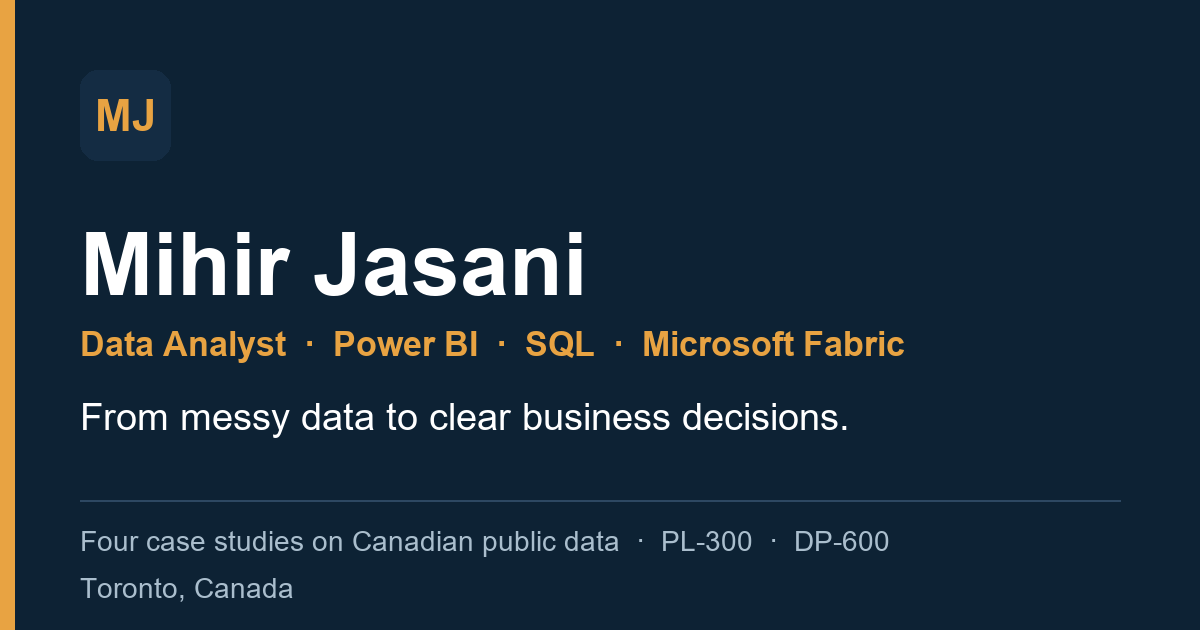
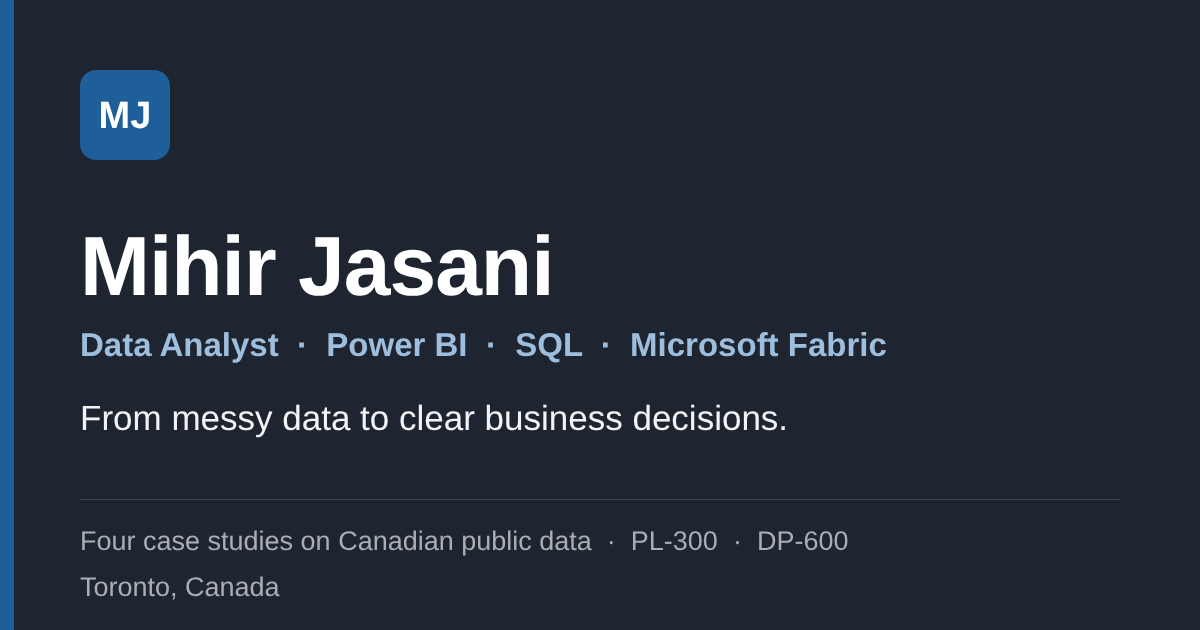
Harbor: remove orange from the site
Rules, focus rings and hover borders use the accent blue; chart
highlights use navy; code syntax uses purple/blue instead of rust.
Favicon, apple-touch icon and social card redrawn in navy and blue.

Claude-Session: https://claude.ai/code/session_01JvAjP8sqo6iSTFGMfecKnt

diff --git a/site/projects.js b/site/projects.js
@@ -277,7 +277,7 @@ window.PROJECTS = [
     charts: [
       {"type": "bar", "orient": "v", "title": "Share of collisions that are fatal, by hour of day (amber = 10 pm to 6 am)", "labels": ["12a", "1a", "2a", "3a", "4a", "5a", "6a", "7a", "8a", "9a", "10a", "11a", "12p", "1p", "2p", "3p", "4p", "5p", "6p", "7p", "8p", "9p", "10p", "11p"], "values": [3.81, 3.93, 4.4, 4.05, 4.89, 3.24, 2.09, 1.43, 1.0, 1.62, 1.6, 1.41, 1.37, 1.62, 1.42, 1.37, 1.33, 1.42, 1.6, 1.64, 2.18, 2.28, 2.3, 3.2], "unit": "% fatal", "suffix": "%", "decimals": 2, "highlight": [0, 1, 2, 3, 4, 5, 22, 23], "noLabels": true},
       {"type": "bar", "orient": "v", "title": "Collisions by month, 2019 and 2020", "labels": ["Jan", "Feb", "Mar", "Apr", "May", "Jun", "Jul", "Aug", "Sep", "Oct", "Nov", "Dec"], "unit": "collisions", "noLabels": true, "datasets": [{"label": "2019", "color": "#1F5F99", "values": [9713, 8327, 7480, 6787, 8037, 9328, 9596, 9371, 9122, 9614, 9370, 9036]}, {"label": "2020", "color": "#24707D", "values": [8519, 7525, 5121, 3251, 5095, 6788, 7652, 7918, 7580, 7270, 6948, 6322]}]},
-      {"type": "line", "title": "2020 as a percentage of the same month of 2019 (100 = no change)", "labels": ["Jan", "Feb", "Mar", "Apr", "May", "Jun", "Jul", "Aug", "Sep", "Oct", "Nov", "Dec"], "unit": "index", "noLabels": true, "datasets": [{"label": "Injury collisions", "color": "#1F5F99", "values": [88, 90, 68, 47, 63, 72, 79, 84, 83, 75, 74, 70]}, {"label": "Fatal collisions", "color": "#C26A1B", "values": [97, 107, 84, 88, 101, 101, 99, 108, 116, 100, 90, 83]}, {"label": "2019 level", "color": "#7A818C", "values": [100, 100, 100, 100, 100, 100, 100, 100, 100, 100, 100, 100]}]},
+      {"type": "line", "title": "2020 as a percentage of the same month of 2019 (100 = no change)", "labels": ["Jan", "Feb", "Mar", "Apr", "May", "Jun", "Jul", "Aug", "Sep", "Oct", "Nov", "Dec"], "unit": "index", "noLabels": true, "datasets": [{"label": "Injury collisions", "color": "#1F5F99", "values": [88, 90, 68, 47, 63, 72, 79, 84, 83, 75, 74, 70]}, {"label": "Fatal collisions", "color": "#1E2530", "values": [97, 107, 84, 88, 101, 101, 99, 108, 116, 100, 90, 83]}, {"label": "2019 level", "color": "#7A818C", "values": [100, 100, 100, 100, 100, 100, 100, 100, 100, 100, 100, 100]}]},
       {"type": "bar", "title": "Illustrative scenario: fewer fatal collisions recorded if the gap were fully closed (2019 and 2020 together)", "labels": ["Uncontrolled roads at the fatal share of signalled roads", "Curved roads at the fatal share of straight roads", "Night at the fatal share of midday"], "values": [1744, 459, 402], "unit": "fewer fatal collisions (assumed)", "highlight": 0},
       {"type": "bar", "title": "Occupants: share who die, by safety device", "labels": ["No safety device used", "No safety device equipped", "Safety device used", "Other safety device"], "values": [6.98, 0.52, 0.43, 0.35], "unit": "% who die", "suffix": "%", "decimals": 2, "highlight": 0},
       {"type": "bar", "title": "Share of records with an unknown value, by field", "labels": ["Safety device", "Collision type", "Traffic control", "Age band", "Road alignment", "Road surface", "Weather", "Time of day"], "values": [21.99, 8.95, 7.25, 5.56, 5.22, 4.63, 1.71, 0.96], "unit": "% unknown", "suffix": "%", "decimals": 2, "highlight": 0}
@@ -756,7 +756,7 @@ window.PROJECTS = [
     ],
     charts: [
       {"type": "bar", "orient": "v", "title": "Opioid deaths in Canada by year", "labels": ["2016", "2017", "2018", "2019", "2020", "2021", "2022", "2023", "2024", "2025"], "values": [2832, 3928, 4262, 3602, 6184, 7617, 7274, 8083, 6669, 5704], "unit": "deaths", "highlight": 7},
-      {"type": "line", "title": "Opioid counts compared with 2019 (2019 = 100)", "labels": ["2016", "2017", "2018", "2019", "2020", "2021", "2022", "2023", "2024", "2025"], "unit": "index", "noLabels": true, "datasets": [{"label": "Deaths", "color": "#1F5F99", "values": [79.0, 109.0, 118.0, 100.0, 172.0, 211.0, 202.0, 224.0, 185.0, 158.0]}, {"label": "Hospital stays", "color": "#24707D", "values": [102.0, 114.0, 112.0, 100.0, 116.0, 139.0, 121.0, 144.0, 125.0, 113.0]}, {"label": "Emergency department visits", "color": "#C26A1B", "values": [65.0, 93.0, 100.0, 100.0, 124.0, 179.0, 133.0, 156.0, 135.0, 128.0]}, {"label": "EMS responses", "color": "#7A818C", "values": [null, 81.0, 97.0, 100.0, 138.0, 192.0, 166.0, 199.0, 168.0, 184.0]}]},
+      {"type": "line", "title": "Opioid counts compared with 2019 (2019 = 100)", "labels": ["2016", "2017", "2018", "2019", "2020", "2021", "2022", "2023", "2024", "2025"], "unit": "index", "noLabels": true, "datasets": [{"label": "Deaths", "color": "#1F5F99", "values": [79.0, 109.0, 118.0, 100.0, 172.0, 211.0, 202.0, 224.0, 185.0, 158.0]}, {"label": "Hospital stays", "color": "#24707D", "values": [102.0, 114.0, 112.0, 100.0, 116.0, 139.0, 121.0, 144.0, 125.0, 113.0]}, {"label": "Emergency department visits", "color": "#1E2530", "values": [65.0, 93.0, 100.0, 100.0, 124.0, 179.0, 133.0, 156.0, 135.0, 128.0]}, {"label": "EMS responses", "color": "#7A818C", "values": [null, 81.0, 97.0, 100.0, 138.0, 192.0, 166.0, 199.0, 168.0, 184.0]}]},
       {"type": "bar", "title": "Opioid death rate per 100,000: 2024, and 2025 (provisional)", "labels": ["British Columbia", "Yukon", "Manitoba", "Alberta", "Saskatchewan", "Canada", "Northwest Territories", "Ontario", "New Brunswick", "Newfoundland and Labrador", "Nova Scotia", "Prince Edward Island", "Quebec"], "unit": "per 100,000", "datasets": [{"label": "2024", "color": "#1F5F99", "values": [35.7, 29.4, 25.0, 24.4, 21.8, 16.2, 15.5, 14.0, 10.0, 8.6, 6.2, 4.5, 3.4]}, {"label": "2025 (provisional)", "color": "#7A818C", "values": [32.6, 29.0, 15.3, 22.9, 18.7, 13.7, 4.4, 8.7, 9.9, 4.9, 7.0, 7.1, 6.5]}]},
       {"type": "bar", "orient": "v", "title": "Opioid deaths by age group and sex, 2024", "labels": ["0 to 19 years", "20 to 29 years", "30 to 39 years", "40 to 49 years", "50 to 59 years", "60 years or more"], "unit": "deaths", "datasets": [{"label": "Female", "values": [44, 332, 520, 441, 311, 219], "color": "#24707D"}, {"label": "Male", "values": [54, 649, 1334, 1167, 885, 628], "color": "#1F5F99"}]},
       {"type": "bar", "title": "What the 34,890 rows contain", "labels": ["Numbers (5.11% are real zeros)", "Blank: not available", "Suppressed: small counts"], "values": [62.08, 24.82, 13.09], "unit": "% of rows", "suffix": "%", "decimals": 2, "highlight": 0}

diff --git a/site/styles.css b/site/styles.css
@@ -7,8 +7,9 @@
   --text: #1E2530;
   --muted: #5A6474;
   --accent: #1F5F99;
-  --contrast: #C26A1B;
+  --highlight: #1E2530;          /* second chart colour (navy); Harbor has no orange */
   --gray: #B8BFC9;
+  --contrast: var(--accent);     /* rules, focus rings, hover borders */
 
   /* derived */
   --line: #DFE1E4;
@@ -35,7 +36,8 @@
   --good: #2E7D5B;
   --good-dark: #1F5B3B;
   --good-bright: #2FA866;
-  --bad: #B4532A;
+  --code-fn: #6639BA;            /* DAX measure names */
+  --code-num: #0550AE;           /* numbers in SQL */
 
   /* older names still used across the CSS and JS, pointed at the palette */
   --navy: var(--accent);
@@ -380,7 +382,7 @@ pre.code { margin: 0; white-space: pre-wrap; font-family: Consolas, "Courier New
 /* DAX measures on the light code panel */
 .dax-panel, .build-grid .panel { grid-column: 1 / -1; }
 pre.code.dax { white-space: pre; overflow-x: auto; line-height: 1.65; tab-size: 4; font-size: 13.5px; padding: 14px 18px; }
-.dx-name { color: var(--bad); font-weight: 600; }
+.dx-name { color: var(--code-fn); font-weight: 600; }
 .dx-fn { color: var(--navy); font-weight: 700; }
 .dx-kw { color: var(--navy); font-weight: 700; }
 .dx-var { color: var(--teal); font-weight: 600; }

diff --git a/site/unify.css b/site/unify.css
@@ -142,7 +142,7 @@ body.inner .sqlq .lang { font-size: 11.5px; font-weight: 850; letter-spacing: .1
 body.inner .sqlq .btn.small { min-height: 34px; padding: 6px 14px; font-size: 13px; }
 body.inner pre.sqlcode { font-size: 13.5px; line-height: 1.65; background: var(--codeBg); border-radius: 8px; padding: 14px 16px; overflow-x: auto; white-space: pre; }
 .sq-com { color: var(--muted); font-style: italic; }
-.sq-num { color: var(--bad); }
+.sq-num { color: var(--code-num); }
 
 /* hero availability chip: same hover as the certification chips beside it */
 body.home .hero-g .trust .avail:hover { border-color: var(--amber); background: var(--amber-soft); color: var(--good-dark); transform: translateY(-2px); }

diff --git a/site/case.js b/site/case.js
@@ -49,7 +49,7 @@
   /* ---------- charts */
   var css = getComputedStyle(document.documentElement);
   function cv(name, dflt) { return css.getPropertyValue(name).trim() || dflt; }
-  var COL = { navy: cv("--accent", "#1F5F99"), amber: cv("--amber", "#C26A1B"), grey: cv("--grey", "#7A818C"), teal: cv("--teal", "#24707D"),
+  var COL = { navy: cv("--accent", "#1F5F99"), amber: cv("--highlight", "#1E2530"), grey: cv("--grey", "#7A818C"), teal: cv("--teal", "#24707D"),
               muted: cv("--muted", "#5A6474"), line: cv("--line", "#DFE1E4"), light: "#BCCFE0" };
   if (window.Chart) { Chart.defaults.font.family = 'Inter, "Segoe UI", system-ui, sans-serif'; Chart.defaults.color = COL.muted; }
 
